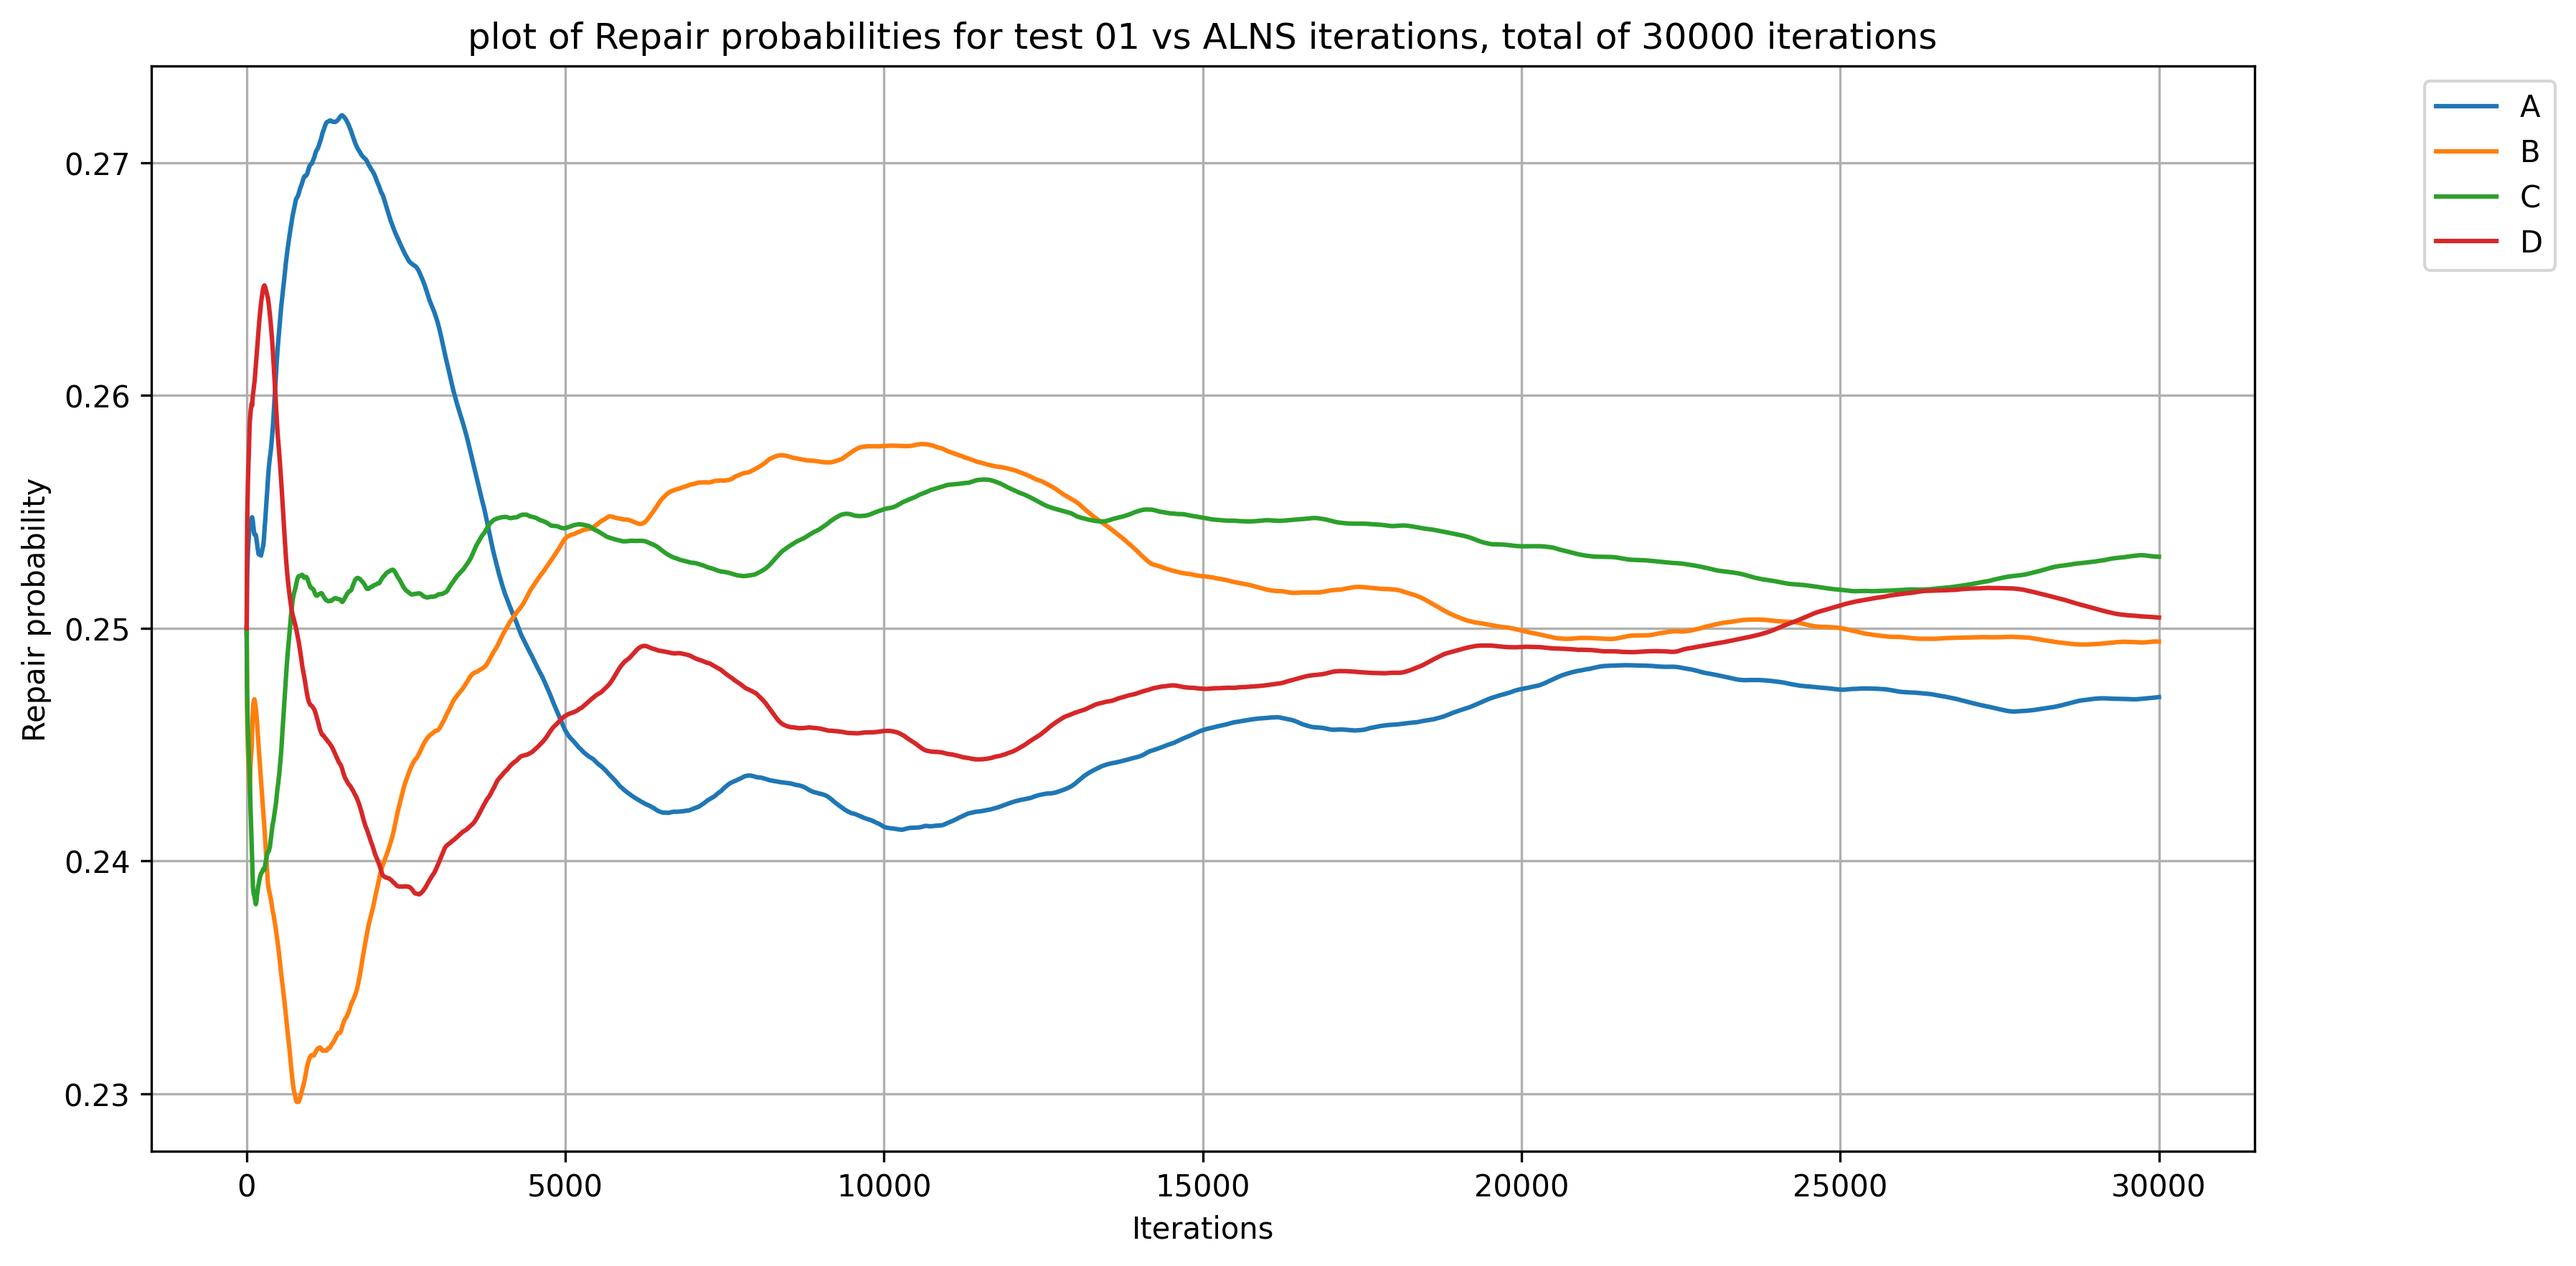
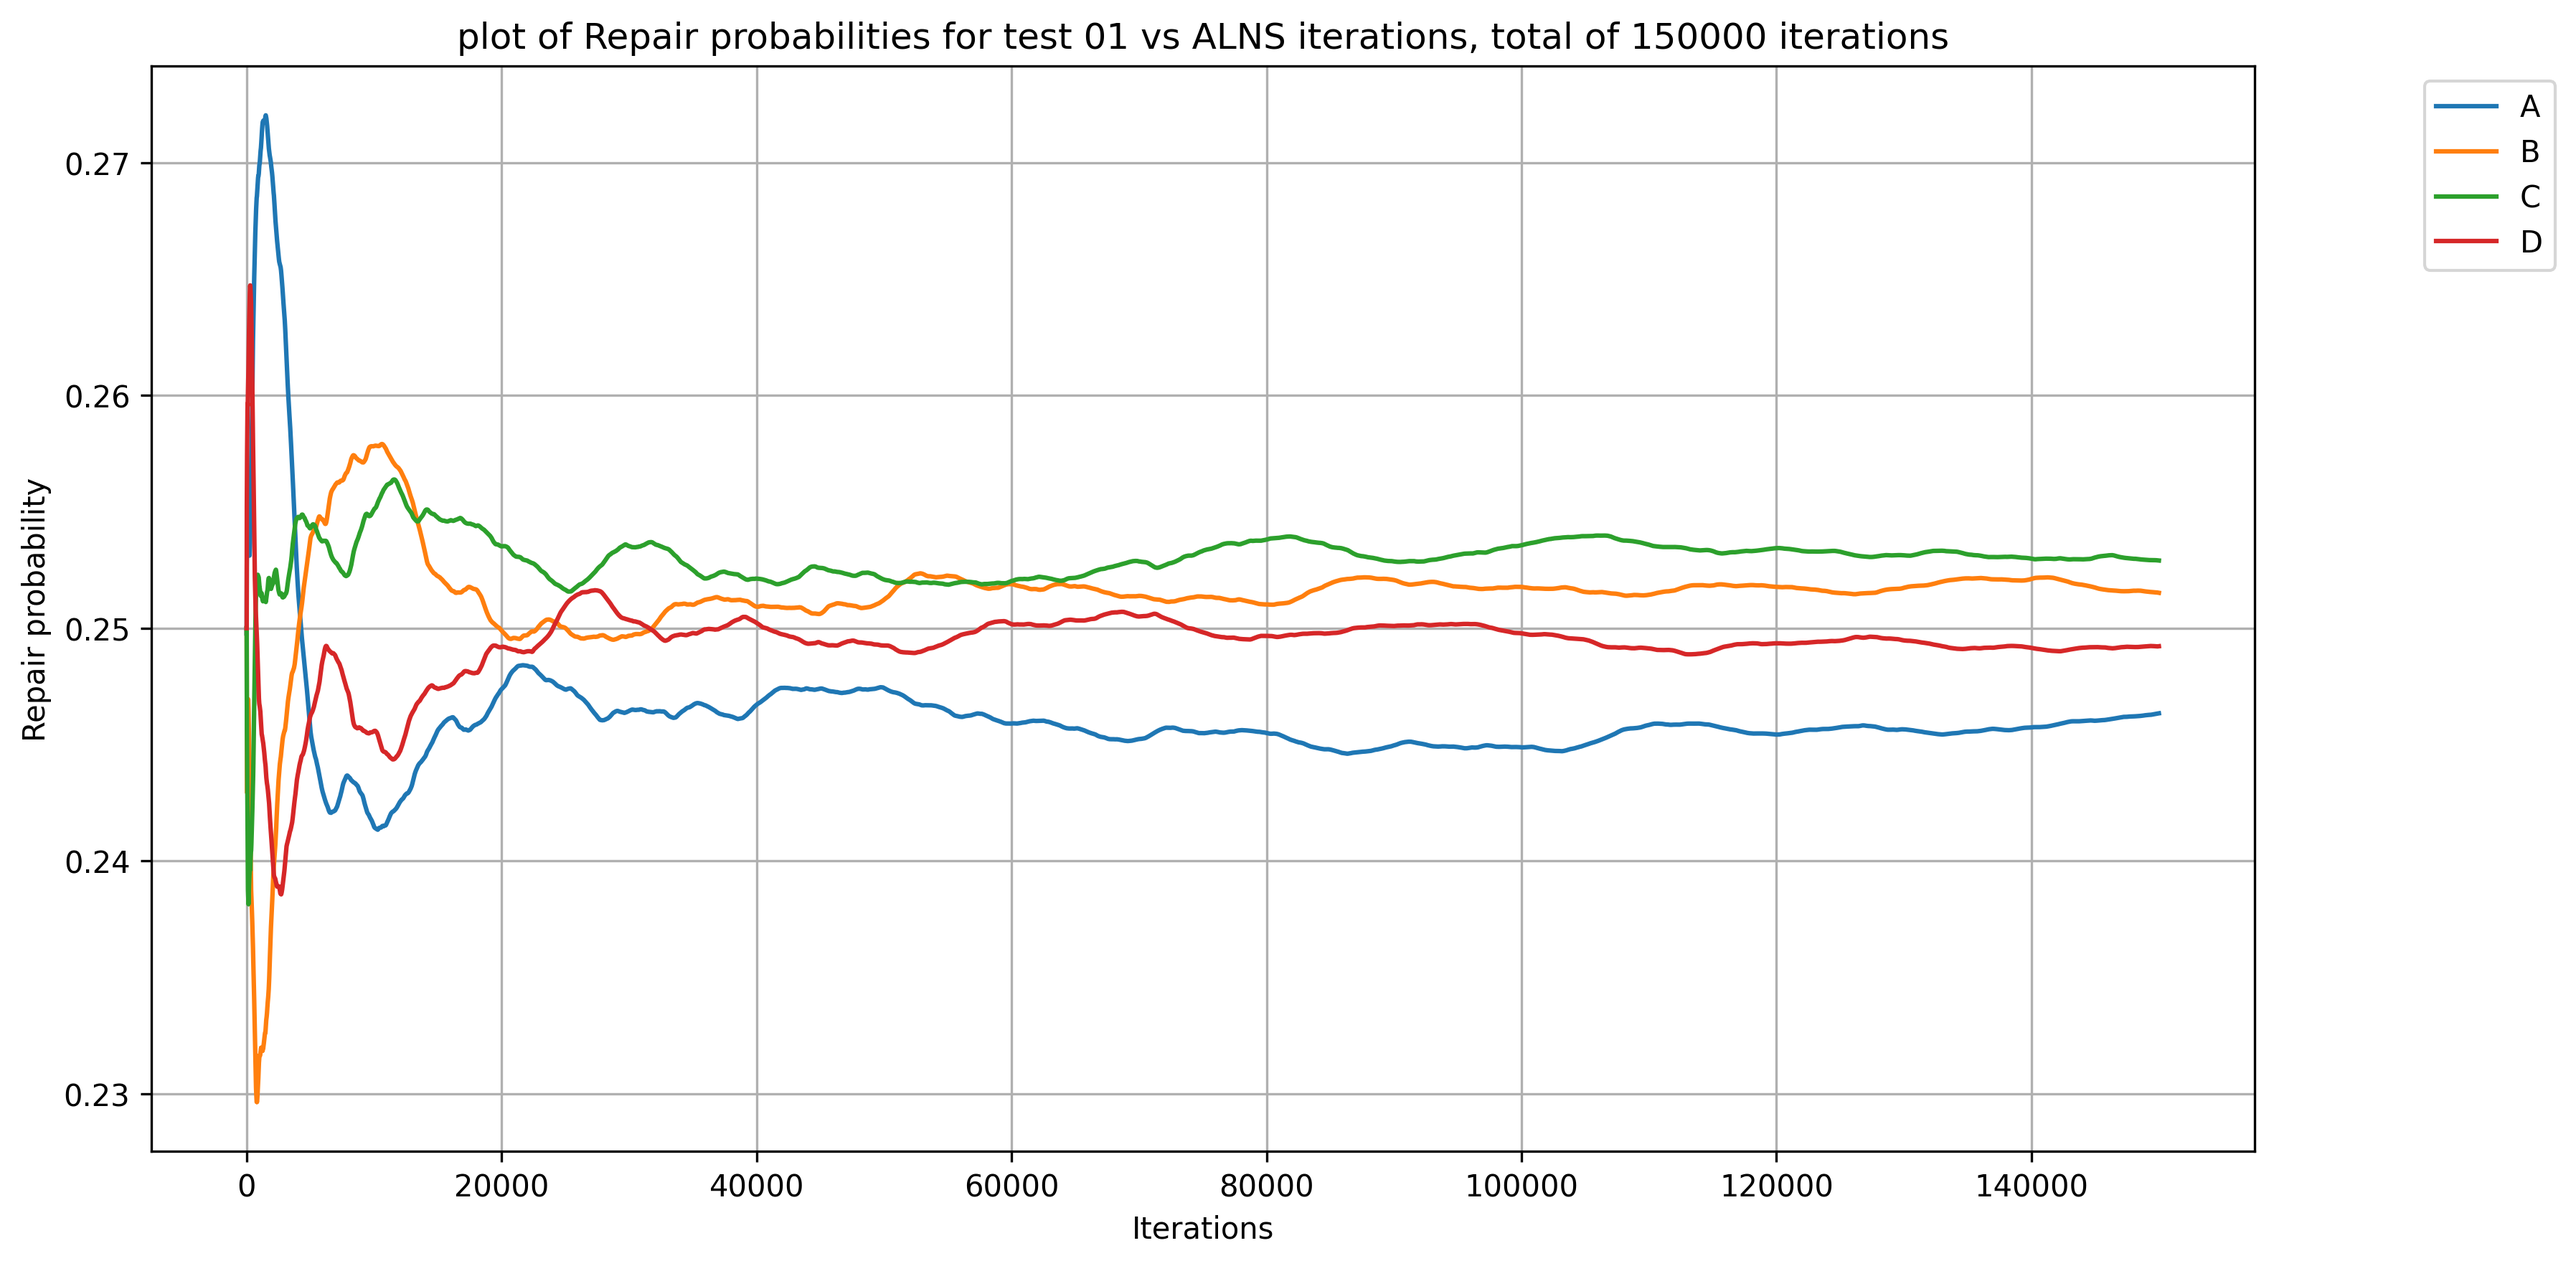
test

diff --git a/main.py b/main.py
@@ -53,7 +53,7 @@ def main():
 
     #  reading
 
-    filename = 'test03.json'
+    filename = 'test04.json'
 
     with open('test_data/'+filename, 'r') as file:
         data = json.load(file)
@@ -154,12 +154,12 @@ def main():
 
     # solving the problem
 
-    number_of_iterations = 10000
+    number_of_iterations = 1000
 
     solver = ALNS(problem, init_solution)
 
 
-    Gamma = 1.5
+    Gamma = 0.9
     rho = 0.001
     Delta = [8,5,1.5,0.5]   # vector of increasing the weights of the destroy and repair
 
